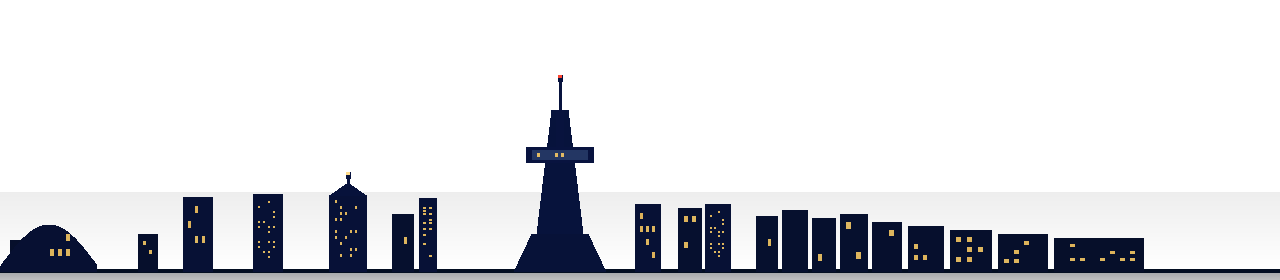
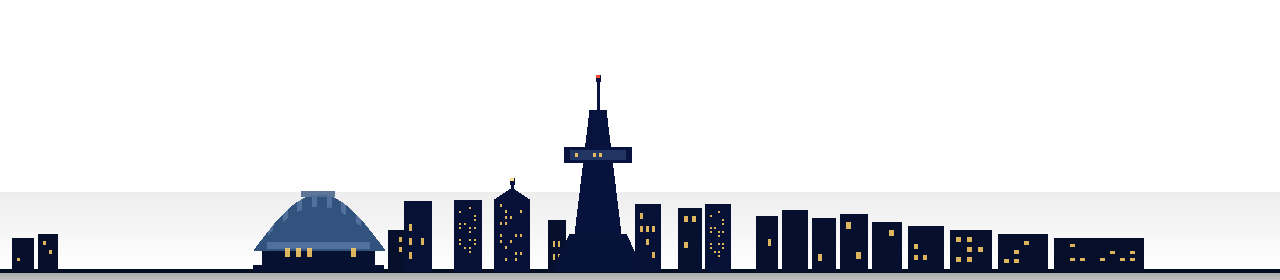
Deploy Stack Rush mobile PWA

Changed region(s): [[0.0, 0.2571, 0.5, 0.9714]]

diff --git a/index.html b/index.html
@@ -619,7 +619,7 @@
       <div class="section-divider"></div>
       <p class="theme-label">City skyline <span id="cityUnlockHint"></span></p>
       <div class="theme-grid" id="cityGrid"></div>
-      <p class="theme-label" id="buildVer" style="margin-top:10px;opacity:.35;font-size:.62rem;text-align:center;">Build 56aea757</p>
+      <p class="theme-label" id="buildVer" style="margin-top:10px;opacity:.35;font-size:.62rem;text-align:center;">Build 0abb5539</p>
       <button class="secondary" id="optionsBackBtn" style="width:100%;margin-top:10px;">Back</button>
     </div>
   </div>
@@ -710,7 +710,7 @@ const MUSIC_TRACKS = [
 
 const SFX_FILES = ['drop', 'land', 'perfect', 'great', 'good', 'slice', 'gameover'];
 const ASSETS_BASE = 'assets/';
-const ASSETS_VER = '56aea757';
+const ASSETS_VER = '0abb5539';
 const BOARD_KEY = 'stackrush_weekly_board';
 const PLAYER_NAME_KEY = 'stackrush_player_name';
 const BOARD_MAX = 15;
@@ -1559,7 +1559,7 @@ function getThemeBgHigh(id) { return getTheme(id).bgHigh || getTheme(id).bg; }
 const CITIES = {
   neon:    { name: 'Neon City', unlockScore: 0,    skyline: 'cities/neon.png',    accent: '#00e5ff' },
   nyc:     { name: 'New York',  unlockScore: 600,  skyline: 'cities/nyc.png',     accent: '#ffd54f' },
-  toronto: { name: 'Toronto',   unlockScore: 1200, skyline: 'cities/toronto.png', accent: '#7c4dff' },
+  toronto: { name: 'Toronto',   unlockScore: 1200, skyline: 'cities/toronto.png', accent: '#7c4dff', skylineFocus: 0.36 },
   tokyo:   { name: 'Tokyo',     unlockScore: 2000, skyline: 'cities/tokyo.png',   accent: '#ff6b9d' },
   london:  { name: 'London',    unlockScore: 2800, skyline: 'cities/london.png',  accent: '#80d8ff', skylineFocus: 0.31 },
   moscow:  { name: 'Moscow',    unlockScore: 4400, skyline: 'cities/moscow.png',  accent: '#ef5350', vivid: true, skylineFocus: 0.33 },
@@ -4057,7 +4057,7 @@ if ('serviceWorker' in navigator) {
     location.reload();
   });
   window.addEventListener('load', () => {
-    navigator.serviceWorker.register('./sw.js?v=56aea757').then((reg) => {
+    navigator.serviceWorker.register('./sw.js?v=0abb5539').then((reg) => {
       reg.update();
       if (reg.waiting) reg.waiting.postMessage({ type: 'SKIP_WAITING' });
       reg.addEventListener('updatefound', () => {

diff --git a/sw.js b/sw.js
@@ -1,5 +1,5 @@
 /* Stack Rush service worker — generated by build_mobile.py */
-const CACHE = 'stackrush-56aea757';
+const CACHE = 'stackrush-0abb5539';
 const ASSETS = [
   "./manifest.webmanifest",
   "./icon.svg",
